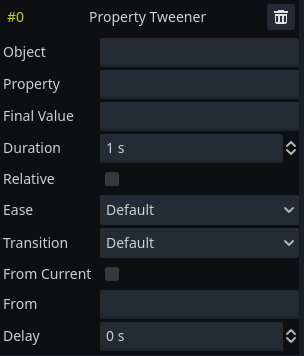
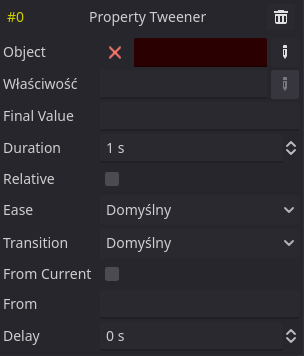
Update readme

diff --git a/README.md b/README.md
@@ -77,7 +77,7 @@ TweenAnimation is edited like most Godot resources. Double click a file in FileS
 
 ### Playback controls
 
-To the left are some controls for testing the animation. The root node is the base node for the animation, as already mentioned above. While it's a plain text box, it will display icon of the target node if it's valid and its name in the tooltip. You can also assign a Node from the scene using drag and drop.
+To the left are some controls for testing the animation. The root node is the base node for the animation, as already mentioned above. While it's a plain text box, it will display icon of the target node if it's valid and its name in the tooltip. You can also assign a Node from the scene using drag and drop or by clicking the edit button.
 
 ![](Media/RootName.png)
 
@@ -144,7 +144,7 @@ Equivalent of `tween.tween_property(object, property, final_value, duration)`.
 ![](Media/PropertyTweener.png)
 
 - **Object:** Path to the target object.
-- **Property:** The name of the property that will be animated, e.g. `modulate`.
+- **Property:** The name of the property that will be animated, e.g. `modulate`. Use the edit button to pick it from the target object.
 - **Final Value:** The final value of this interpolation, expressed in a value field. Make sure the type matches the property's type.
 - **Duration:** Duration of the interpolation in seconds.
 - **Relative:** If enabled, the value will be relative to the value at the time of *playing* the animation. Equivalent of `tweener.as_relative()`.
